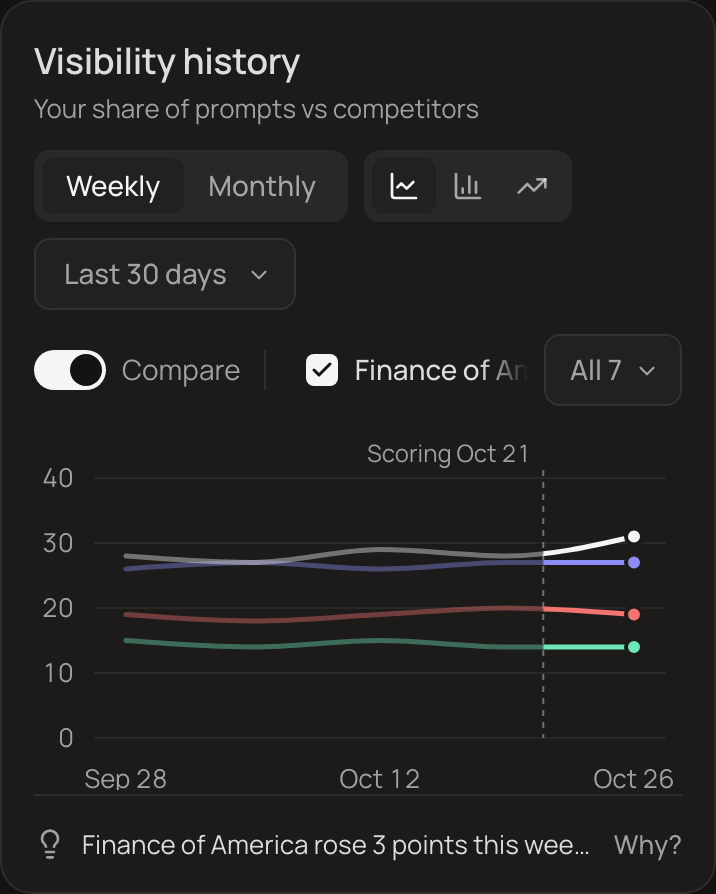
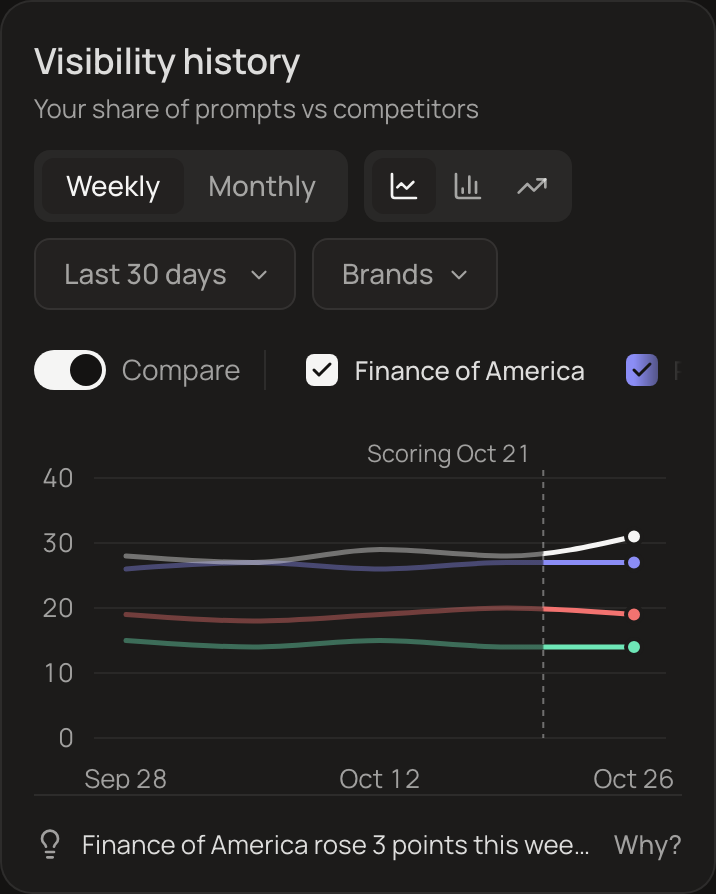
Visibility history: 'Brands' moves into the header controls (after the range), so the chips get the full line; chip text 13px; the list stays on screen on phones

Changed region(s): [[0.4916, 0.3926, 0.9218, 0.453], [0.4609, 0.302, 0.6145, 0.3322]]

diff --git a/src/components/dashboard/VisibilityHistory.jsx b/src/components/dashboard/VisibilityHistory.jsx
@@ -216,10 +216,9 @@ function TopValueLabel({ x, y, width = 0, value }) {
 
 // The legend chips on one line, never wrapped. Wider screens: short names stay whole and only the longest end in an
 // ellipsis, all cut to one width (chipCap; the full name is in the tooltip), measured again on resize and once the web
-// fonts load. Phones: the chips scroll sideways, with a soft fade on the side(s) that have more. The "All N brands"
-// menu stays at the end either way.
+// fonts load. Phones: the chips scroll sideways, with a soft fade on the side(s) that have more.
 const CHIP_GAP = 4
-function ChipRow({ mobile, children, menu, measureKey }) {
+function ChipRow({ mobile, children, measureKey }) {
   const box = useRef(null)
   const [edges, setEdges] = useState({ left: false, right: false })
   const [cap, setCap] = useState(Infinity)
@@ -258,25 +257,33 @@ function ChipRow({ mobile, children, menu, measureKey }) {
     ? `linear-gradient(to right, ${edges.left ? 'transparent' : '#000'}, #000 24px, #000 calc(100% - 24px), ${edges.right ? 'transparent' : '#000'})`
     : undefined
   return (
-    <div className="flex min-w-0 flex-1 items-center gap-2">
+    <div className="flex min-w-0 flex-1 items-center">
       <div ref={box} style={fade ? { maskImage: fade, WebkitMaskImage: fade } : { '--chip-max': Number.isFinite(cap) ? `${cap}px` : 'none' }}
         className={`flex min-w-0 flex-1 items-center gap-1 ${mobile ? 'overflow-x-auto overscroll-x-contain [scrollbar-width:none] [&::-webkit-scrollbar]:hidden' : 'overflow-hidden'}`}>
         {children}
       </div>
-      {menu}
     </div>
   )
 }
 
-// "All 7 brands ▾": every brand (logo, name, latest share) as a checklist of what's on the chart. At most 4: the brand
-// (always on, locked) + 3 competitors. Checking a 4th competitor swaps out the last one, with a short note saying so.
-function BrandsMenu({ brands, focalKey, drawn, onPick, mobile }) {
+// "Brands ▾" (a header control, after the range): every brand (logo, name, latest share) as a checklist of what's on
+// the chart. At most 4: the brand (always on, locked) + 3 competitors. Checking a 4th competitor swaps out the last one,
+// with a short note saying so.
+function BrandsMenu({ brands, focalKey, drawn, onPick }) {
   const [open, setOpen] = useState(false)
+  // a phone's header wraps, so the button can sit anywhere: the list opens toward the side with room, kept 16px inside
+  const [place, setPlace] = useState({ left: false, shift: 0 })
   const [note, setNote] = useState('')
   const wrap = useRef(null)
   const btn = useRef(null)
   const menu = useRef(null)
   const ITEM = '[role=menuitemcheckbox]'
+  useLayoutEffect(() => {
+    if (!open || !menu.current || !btn.current) return
+    const b = btn.current.getBoundingClientRect(), w = menu.current.offsetWidth
+    if (b.right - w >= 16) setPlace({ left: false, shift: 0 })
+    else setPlace({ left: true, shift: Math.min(0, window.innerWidth - 16 - (b.left + w)) })
+  }, [open])
   useEffect(() => {
     if (!open) { setNote(''); return }
     menu.current?.querySelector(`${ITEM}:not([aria-disabled=true])`)?.focus()
@@ -301,14 +308,14 @@ function BrandsMenu({ brands, focalKey, drawn, onPick, mobile }) {
   return (
     <div ref={wrap} className="relative shrink-0" onKeyDown={open ? onKey : undefined}>
       <button ref={btn} type="button" aria-haspopup="menu" aria-expanded={open} onClick={() => setOpen((o) => !o)}
-        aria-label={`All ${brands.length} brands: pick up to 4 for the chart`}
-        className="inline-flex h-9 items-center gap-1.5 whitespace-nowrap rounded-lg border border-line bg-raised pl-3 pr-2.5 text-small font-medium text-stone-600 outline-none transition-colors duration-150 hover:text-stone-900 focus-visible:ring-2 focus-visible:ring-focus">
-        {mobile ? `All ${brands.length}` : `All ${brands.length} brands`}
+        aria-label={`Brands: ${brands.length} brands, pick up to 4 for the chart`}
+        className="inline-flex h-9 shrink-0 items-center gap-1.5 whitespace-nowrap rounded-lg border border-line bg-raised pl-3.5 pr-3 text-small font-medium text-stone-600 outline-none transition-colors duration-150 hover:text-stone-900 focus-visible:ring-2 focus-visible:ring-focus">
+        Brands
         <ChevronDown size={13} className={`text-stone-500 transition-transform duration-150 ${open ? 'rotate-180' : ''}`} aria-hidden />
       </button>
       {open && (
-        <div ref={menu} role="menu" aria-label="Brands on the chart"
-          className="absolute right-0 top-full z-30 mt-1 w-[min(20rem,calc(100vw-2rem))] rounded-lg border border-line bg-raised p-1 shadow-md motion-safe:animate-[fade-in_120ms_ease-out]">
+        <div ref={menu} role="menu" aria-label="Brands on the chart" style={place.shift ? { transform: `translateX(${place.shift}px)` } : undefined}
+          className={`absolute ${place.left ? 'left-0' : 'right-0'} top-full z-30 mt-1 w-[min(20rem,calc(100vw-2rem))] rounded-lg border border-line bg-raised p-1 shadow-md motion-safe:animate-[fade-in_120ms_ease-out]`}>
           <div className="px-2 pb-1 pt-1.5 text-[12px] leading-4 text-stone-500">Up to 4 on the chart</div>
           {brands.map((b) => {
             const you = b.key === focalKey
@@ -603,10 +610,10 @@ export default function VisibilityHistory() {
                 onBlur={() => setHovered(null)}
                 aria-label={`${brandName(s.label)}: ${shown ? 'shown' : 'hidden'}`}
                 className={isLine
-                  ? `inline-flex h-8 $shrink-0 ${mobile ? 'max-w-[15rem]' : 'max-w-[var(--chip-max)]'} items-center gap-2 whitespace-nowrap rounded-md px-2 text-[14px] leading-5 outline-none transition-colors duration-150 hover:bg-[var(--tint)] focus-visible:ring-2 focus-visible:ring-focus ${
+                  ? `inline-flex h-8 $shrink-0 ${mobile ? 'max-w-[15rem]' : 'max-w-[var(--chip-max)]'} items-center gap-2 whitespace-nowrap rounded-md px-2 text-[13px] leading-[18px] outline-none transition-colors duration-150 hover:bg-[var(--tint)] focus-visible:ring-2 focus-visible:ring-focus ${
                     shown ? 'font-medium text-stone-900' : 'font-normal text-stone-600'
                   }`
-                  : `inline-flex h-8 $shrink-0 ${mobile ? 'max-w-[15rem]' : 'max-w-[var(--chip-max)]'} items-center gap-2 whitespace-nowrap rounded-full px-3 text-[14px] leading-5 outline-none transition-colors duration-150 focus-visible:ring-2 focus-visible:ring-focus ${
+                  : `inline-flex h-8 $shrink-0 ${mobile ? 'max-w-[15rem]' : 'max-w-[var(--chip-max)]'} items-center gap-2 whitespace-nowrap rounded-full px-3 text-[13px] leading-[18px] outline-none transition-colors duration-150 focus-visible:ring-2 focus-visible:ring-focus ${
                     shown ? 'bg-tint text-stone-900' : 'bg-transparent text-stone-600/60 hover:text-stone-600'
                   }`}
                 title={lastOne ? `${brandName(s.label)} · at least one brand stays on the chart` : brandName(s.label)}
@@ -640,17 +647,17 @@ export default function VisibilityHistory() {
             ]}
           />
           <RangeSelect granularity={view.granularity} value={view.range} onChange={(range) => update({ range })} />
+          {compare && notDrawn.length > 0 && <BrandsMenu brands={[byKey(YOU), ...ranked]} focalKey={YOU} drawn={drawn} onPick={setPicks} />}
         </div>
       </div>
 
-      {/* legend = filter: one line, never wrapped. At most 4 brands: the brand + 3 competitors; "All N brands" at the
-          end picks which (checking a 4th competitor swaps out the last one) */}
+      {/* legend = filter: one line, never wrapped. At most 4 brands: the brand + 3 competitors; "Brands" in the header
+          picks which (checking a 4th competitor swaps out the last one) */}
       <div className="mt-3 flex min-h-9 min-w-0 items-center">
         <span className="flex h-8 shrink-0 items-center"><Switch checked={compare} onChange={setCompare} className="shrink-0">Compare</Switch></span>
         <span className="mx-3 h-5 w-px shrink-0 bg-stone-200" aria-hidden />
         {compare ? (
-          <ChipRow mobile={mobile} measureKey={`${chartType}|${drawn.join(',')}|${view.hidden.join(',')}`}
-            menu={notDrawn.length > 0 && <BrandsMenu brands={[byKey(YOU), ...ranked]} focalKey={YOU} drawn={drawn} onPick={setPicks} mobile={mobile} />}>
+          <ChipRow mobile={mobile} measureKey={`${chartType}|${drawn.join(',')}|${view.hidden.join(',')}`}>
             {[byKey(YOU), ...COMPETITORS].map((s) => chip(s))}
           </ChipRow>
         ) : isLine ? (
